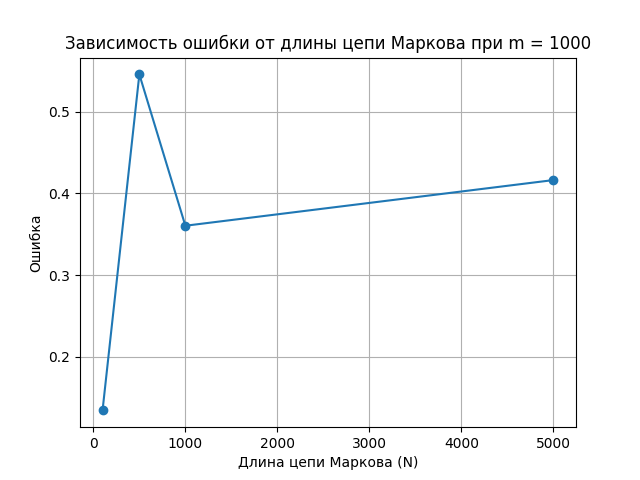
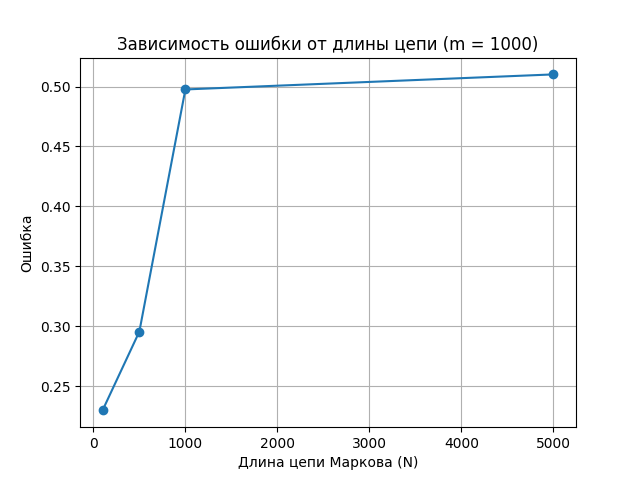
add Monte Carlo simulation implementation and related files for lab 5

diff --git a/3.1/mathmod/lab5/task5.py b/3.1/mathmod/lab5/task5.py
@@ -1,20 +1,25 @@
 import numpy as np
 import matplotlib.pyplot as plt
 
-# Инициализация переменных
-n = 3  # Количество переменных в системе
+n = 3
 
-A = np.array([[1.0, -0.4, -0.1], [0.4, 0.7, -0.1], [0.3, 0.2, 1.0]])
-f = np.array([-1, 5, -4])
+A = np.array(
+    [
+        [0.7, -0.3, -0.2],
+        [-0.2, 0.2, -0.7],
+        [-0.5, 0.1, 2],
+    ]
+)
+f = np.array([-1, -3, 8])
 
 B = np.array(
     [
-        [0, 0.4, 0.1],
-        [-0.4 / 0.7, 0, 0.1 / 0.7],
-        [-0.3, -0.2, 0],
+        [0, 0.3 / 0.7, 0.2 / 0.7],
+        [0.2, 0, -0.2],
+        [0.5 / 2, -0.1 / 2, 0],
     ]
 )
-g = np.array([-1, 5 / 0.7, -4])
+g = np.array([-1 / 0.7, -3.45454545, 8 / 2])
 
 # Начальные вероятности для цепи Маркова (должны суммироваться в 1)
 pi = np.array([1 / 3, 1 / 3, 1 / 3])
@@ -25,23 +30,26 @@ p = np.array([[0, 0.5, 0.5], [0.5, 0, 0.5], [0.5, 0.5, 0]])
 x_direct = np.linalg.solve(A, f)
 
 
-def solve_monte_carlo(N, m, l):
-    # Инициализация вектора h для текущей переменной
-    h = np.zeros(n)
-    h[l] = 1
-    ksi = np.zeros(m)  # Массив для хранения результатов ksi для текущей переменной
+def solve_monte_carlo_all_coords(N, m):
+    # Результирующий вектор
+    x_sum = np.zeros(n)
 
-    for j in range(m):
-        # Инициализация цепи Маркова
+    # Чтобы удобнее было инициализировать Q, определим "h" как единичную матрицу:
+    # h[l, i] = 1, если l == i, иначе 0.
+    # Тогда Q[l,k] будет соответствовать случаю, когда "h" берётся для компоненты l.
+    h = np.eye(n)
+
+    for _ in range(m):
+        # 1. Инициализация цепи Маркова
         alpha = np.random.rand()
         if alpha < pi[0]:
-            i_chain = [0]  # Начальное состояние 0
+            i_chain = [0]
         elif alpha < pi[0] + pi[1]:
-            i_chain = [1]  # Начальное состояние 1
+            i_chain = [1]
         else:
-            i_chain = [2]  # Начальное состояние 2
+            i_chain = [2]
 
-        # Генерация цепи Маркова
+        # 2. Генерация цепи Маркова длины N
         for k in range(1, N + 1):
             alpha = np.random.rand()
             cumulative_prob = 0.0
@@ -51,64 +59,106 @@ def solve_monte_carlo(N, m, l):
                     i_chain.append(next_state)
                     break
 
-        # Вычисление весов цепи Маркова
-        Q = [0] * (N + 1)
+        # 3. Вычисление весов Q для всех l = 0..n-1
+        #    Q будет размером (n, N+1), т.к. для каждого l своя строка
+        Q = np.zeros((n, N + 1))
+
+        # Инициализация Q[:, 0]
+        # Для каждого l: Q[l, 0] = h[l, i_chain[0]] / pi[i_chain[0]] (если pi[i_chain[0]]>0)
+        # h[l, i_chain[0]] = 1, если l == i_chain[0], иначе 0
         if pi[i_chain[0]] > 0:
-            Q[0] = h[i_chain[0]] / pi[i_chain[0]]
-        else:
-            Q[0] = 0
+            for l in range(n):
+                Q[l, 0] = h[l, i_chain[0]] / pi[i_chain[0]]
 
         for k in range(1, N + 1):
             pr = p[i_chain[k - 1]][i_chain[k]]
             if pr > 0:
-                Q[k] = Q[k - 1] * B[i_chain[k - 1]][i_chain[k]] / pr
+                for l in range(n):
+                    Q[l, k] = Q[l, k - 1] * B[i_chain[k - 1]][i_chain[k]] / pr
             else:
-                Q[k] = 0
+                # Если pr == 0, то переход невозможен; обнулим соответствующие веса
+                Q[:, k] = 0
 
-        # Вычисление ksi для данной цепи
-        for k in range(N + 1):
-            ksi[j] += Q[k] * g[i_chain[k]]
+        # 4. Накопим вклад в x (для каждой компоненты l)
+        #    ksi[l] = sum_{k=0..N} Q[l, k] * g[i_chain[k]]
+        ksi = np.zeros(n)
+        for l in range(n):
+            for k in range(N + 1):
+                ksi[l] += Q[l, k] * g[i_chain[k]]
 
-    # Вычисление среднего значения x[l]
-    return np.sum(ksi) / m
+        x_sum += ksi
+
+    x_est = x_sum / m
+    return x_est
 
 
-m_fixed = 1000
-Ns = [100, 500, 1000, 5000]  # Различные длины цепей Маркова
-errors_N = []
+print("Решение методом прямого вычисления:")
+print(x_direct)
 
-for N in Ns:
-    x = np.zeros(n)
-    for l in range(n):
-        x[l] = solve_monte_carlo(N, m_fixed, l)
-    error = np.linalg.norm(x - x_direct)
-    errors_N.append(error)
+print("Решение методом Монте-Карло:")
+print(solve_monte_carlo_all_coords(N=1000, m=1000))
 
-plt.figure()
-plt.plot(Ns, errors_N, marker="o")
-plt.xlabel("Длина цепи Маркова (N)")
-plt.ylabel("Ошибка")
-plt.title("Зависимость ошибки от длины цепи Маркова при m = {}".format(m_fixed))
-plt.grid(True)
-plt.savefig("img/error_vs_N.png")
-plt.close()
+# # Построение графиков зависимости ошибки от длины цепи Маркова и количества реализаций
+# Ns = [100, 500, 1000, 5000]
+# m_fixed = 1000
+# errors_N = []
+# for N in Ns:
+#     x_est = solve_monte_carlo_all_coords(N, m_fixed)
+#     error = np.linalg.norm(x_est - x_direct)
+#     errors_N.append(error)
 
-N_fixed = 1000
-ms = [100, 500, 1000, 2000, 5000]  # Различные количества реализаций
-errors_m = []
+# plt.figure()
+# plt.plot(Ns, errors_N, marker="o")
+# plt.xlabel("Длина цепи Маркова (N)")
+# plt.ylabel("Ошибка")
+# plt.title("Зависимость ошибки от длины цепи (m = {})".format(m_fixed))
+# plt.grid(True)
+# plt.savefig("img/error_vs_N.png")
+# plt.close()
 
-for m in ms:
-    x = np.zeros(n)
-    for l in range(n):
-        x[l] = solve_monte_carlo(N_fixed, m, l)
-    error = np.linalg.norm(x - x_direct)
-    errors_m.append(error)
 
-plt.figure()
-plt.plot(ms, errors_m, marker="o")
-plt.xlabel("Количество реализаций (m)")
-plt.ylabel("Ошибка")
-plt.title("Зависимость ошибки от количества реализаций при N = {}".format(N_fixed))
-plt.grid(True)
-plt.savefig("img/error_vs_m.png")
+# ms = [100, 500, 1000, 2000, 5000]
+# N_fixed = 1000
+# errors_m = []
+# for m in ms:
+#     x_est = solve_monte_carlo_all_coords(N_fixed, m)
+#     error = np.linalg.norm(x_est - x_direct)
+#     errors_m.append(error)
+
+# plt.figure()
+# plt.plot(ms, errors_m, marker="o")
+# plt.xlabel("Количество реализаций (m)")
+# plt.ylabel("Ошибка")
+# plt.title("Зависимость ошибки от числа реализаций (N = {})".format(N_fixed))
+# plt.grid(True)
+# plt.savefig("img/error_vs_m.png")
+# plt.close()
+
+
+Ns = [100, 500, 1000, 5000]  # Длина цепи Маркова
+ms = [100, 500, 1000, 2000, 5000]  # Количество реализаций
+
+error_grid = np.zeros((len(ms), len(Ns)))
+
+for i, N_ in enumerate(Ns):
+    for j, m_ in enumerate(ms):
+        x_est = solve_monte_carlo_all_coords(N_, m_)
+        error_grid[j, i] = np.linalg.norm(x_est - x_direct)
+
+# Подготовим координатные сетки (они должны совпадать с размерностями error_grid)
+N_grid, M_grid = np.meshgrid(Ns, ms, indexing="xy")  # shape -> (len(ms), len(Ns))
+
+fig, ax = plt.subplots(subplot_kw={"projection": "3d"}, figsize=(8, 6))
+
+surf = ax.plot_surface(N_grid, M_grid, error_grid, cmap="viridis", edgecolor="none")
+
+ax.set_title("Зависимость ошибки от (N, m)")
+ax.set_xlabel("N")
+ax.set_ylabel("m")
+ax.set_zlabel("Error")
+
+fig.colorbar(surf, ax=ax, shrink=0.5, aspect=10)
+
+plt.savefig("img/error_3d_surface.png")
+plt.show()
 plt.close()

diff --git a/3.1/mathmod/lab5/cpp/solve1.cpp b/3.1/mathmod/lab5/cpp/solve1.cpp
@@ -1,0 +1,123 @@
+#include <iostream>
+#include <vector>
+#include <algorithm>
+
+using namespace std;
+
+// Решение системы Ax = f
+int main()
+{
+    srand(time(NULL));
+
+    int size = 3;                  // Размерность системы
+    int n = 1000;                  // Длина одной цепи маркова
+    vector<vector<float>> a(size); // Исходная матрица
+    vector<float> f(size);         // Правая часть системы
+    vector<float> h(size);
+    vector<float> pi(size);        // Вектор нач. вероятностей цепи Маркова
+    vector<vector<float>> p(size); // Матрица переходных состояний цепи Маркова
+    vector<int> i;                 // Цепь Маркова
+    vector<float> Q;               // Веса состояний цепи Маркова
+    vector<float> ksi;             // СВ
+    int m;                         // Количество реализаций цепи Маркова
+    float alpha;                   // БСВ
+
+    for (int k = 0; k < size; k++)
+        a[k] = vector<float>(size);
+
+    for (int k = 0; k < size; k++)
+        p[k] = vector<float>(size);
+
+    i = vector<int>(n + 1);   // Элементы цепи маркова
+    Q = vector<float>(n + 1); // Матрица весов
+
+    m = 10000; // Число моделируемых цепей маркова
+
+    ksi = vector<float>(m);
+
+    a = {{0, -0.2 / 1.2, -1.0 / 1.2}, {-0.1, 0.5, 0.1}, {-0.035 / 0.045, -0.005 / 0.045, 0}};
+
+    for (int j = 0; j < size; j++) // Приводим систему к виду x = Ax + f
+        for (int k = 0; k < size; k++)
+            if (j == k)
+                a[j][k] = 1 - a[j][k];
+            else
+                a[j][k] = -a[j][k];
+
+    f[0] = 3.0 / 1.2;
+    f[1] = 3.0;
+    f[2] = 0.35 / 0.045;
+
+    h[0] = 0;
+    h[1] = 0;
+    h[2] = 0;
+
+    pi[0] = 1.0 / 3.0;
+    pi[1] = 1.0 / 3.0;
+    pi[2] = 1.0 / 3.0;
+
+    p[0][0] = 0.0;
+    p[0][1] = 0.5;
+    p[0][2] = 0.5;
+    p[1][0] = 1.0 / 3.0;
+    p[1][1] = 1.0 / 3.0;
+    p[1][2] = 1.0 / 3.0;
+    p[2][0] = 0.5;
+    p[2][1] = 0.5;
+    p[2][2] = 0.0;
+
+    for (int posInH = 0; posInH < 3; posInH++)
+    {
+        h[posInH] = 1; // смещаем 1 в координатах h
+
+        for (int j = 0; j < m; j++) // Чистим
+            ksi[j] = 0;
+        i = vector<int>(n + 1);   // Чистим
+        Q = vector<float>(n + 1); // Чистим
+
+        // Моделируем m цепей Маркова длины n
+        for (int j = 0; j < m; j++)
+        {
+            alpha = rand() / float(RAND_MAX);
+            if (alpha < pi[0])
+                i[0] = 0; // реализуется 1-е состояние
+            else if (alpha < pi[0] + pi[1])
+                i[0] = 1; // реализуется 2-е состояние
+            else
+                i[0] = 2; // реализуется 3-е состояние
+            for (int k = 1; k <= n; k++)
+            {
+                alpha = rand() / float(RAND_MAX);
+                if (alpha < pi[0])
+                    i[k] = 0; // реализуется 1-е состояние
+                else if (alpha < pi[1] + pi[0])
+                    i[k] = 1; // реализуется 2-е состояние
+                else
+                    i[k] = 2; // реализуется 3-е состояние
+            }
+
+            // Вычисляем веса цепи Маркова
+            if (pi[i[0]] > 0)
+                Q[0] = h[i[0]] / pi[i[0]];
+            else
+                Q[0] = 0;
+            for (int k = 1; k <= n; k++)
+            {
+                if (p[i[k - 1]][i[k]] > 0)
+                    Q[k] = Q[k - 1] * a[i[k - 1]][i[k]] / p[i[k - 1]][i[k]];
+                else
+                    Q[k] = 0;
+            }
+            for (int k = 0; k <= n; k++)
+                ksi[j] += Q[k] * f[i[k]];
+        }
+
+        float x = 0;
+        for (int k = 0; k < m; k++)
+            x += ksi[k];
+        x = x / m;
+        cout << x << '\n';
+
+        h[posInH] = 0;
+    }
+}

diff --git a/3.1/mathmod/lab5/sol.py b/3.1/mathmod/lab5/sol.py
@@ -1,0 +1,18 @@
+import numpy as np
+
+A = np.array([[0.7, -0.3, -0.2], [-0.2, 0.2, -0.7], [-0.5, 0.1, 2]])
+f = np.array([-1, -3, 8])
+
+x = np.linalg.solve(A, f)
+print(x)
+
+A = np.array([[0.7, -0.3, -0.2], [-0.1, 1, 0.1], [-0.5, 0.1, 2]])
+
+b = A @ x
+
+print("Сгенерированная матрица A:")
+print(A)
+print("\nЗаданный вектор решения x:")
+print(x)
+print("\nПравая часть b = A x:")
+print(b)
